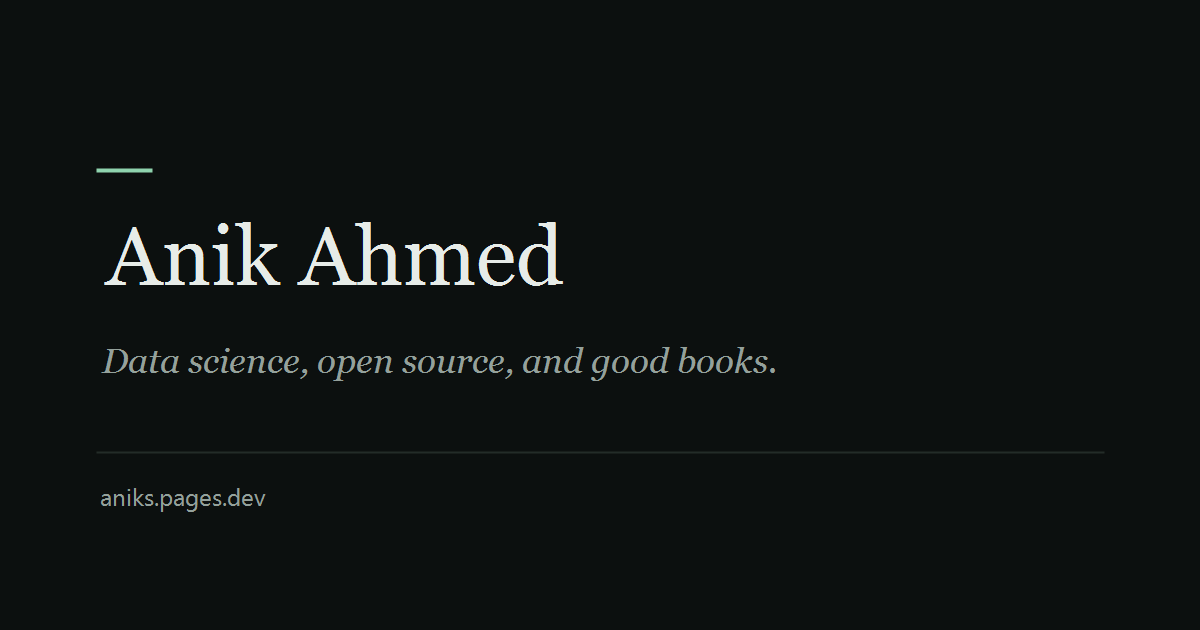
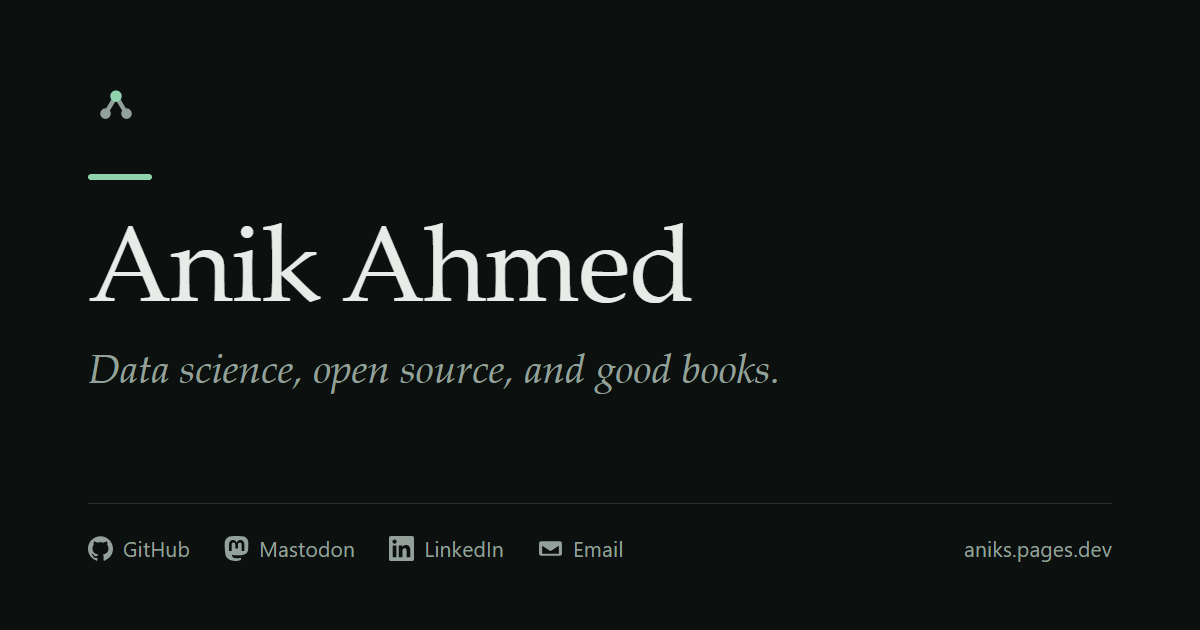
feat: a social card with the brand marks
The preview image gains the site mark, the name, the tagline and the GitHub, Mastodon, LinkedIn and Email marks. The head declares the image size and type, a profile object with the person fields, and alt text for the image.

diff --git a/src/consts.ts b/src/consts.ts
@@ -7,6 +7,7 @@ export const SITE = {
   description:
     'Anik Ahmed is an MSc data science student at BUET in Dhaka, working on machine learning, open-source software, and decentralized systems.',
   locale: 'en',
+  ogLocale: 'en_GB',
   ogImage: '/og.png',
   repo: 'https://github.com/anik-amd/aniks',
   license: 'https://github.com/anik-amd/aniks/blob/main/LICENSE',
